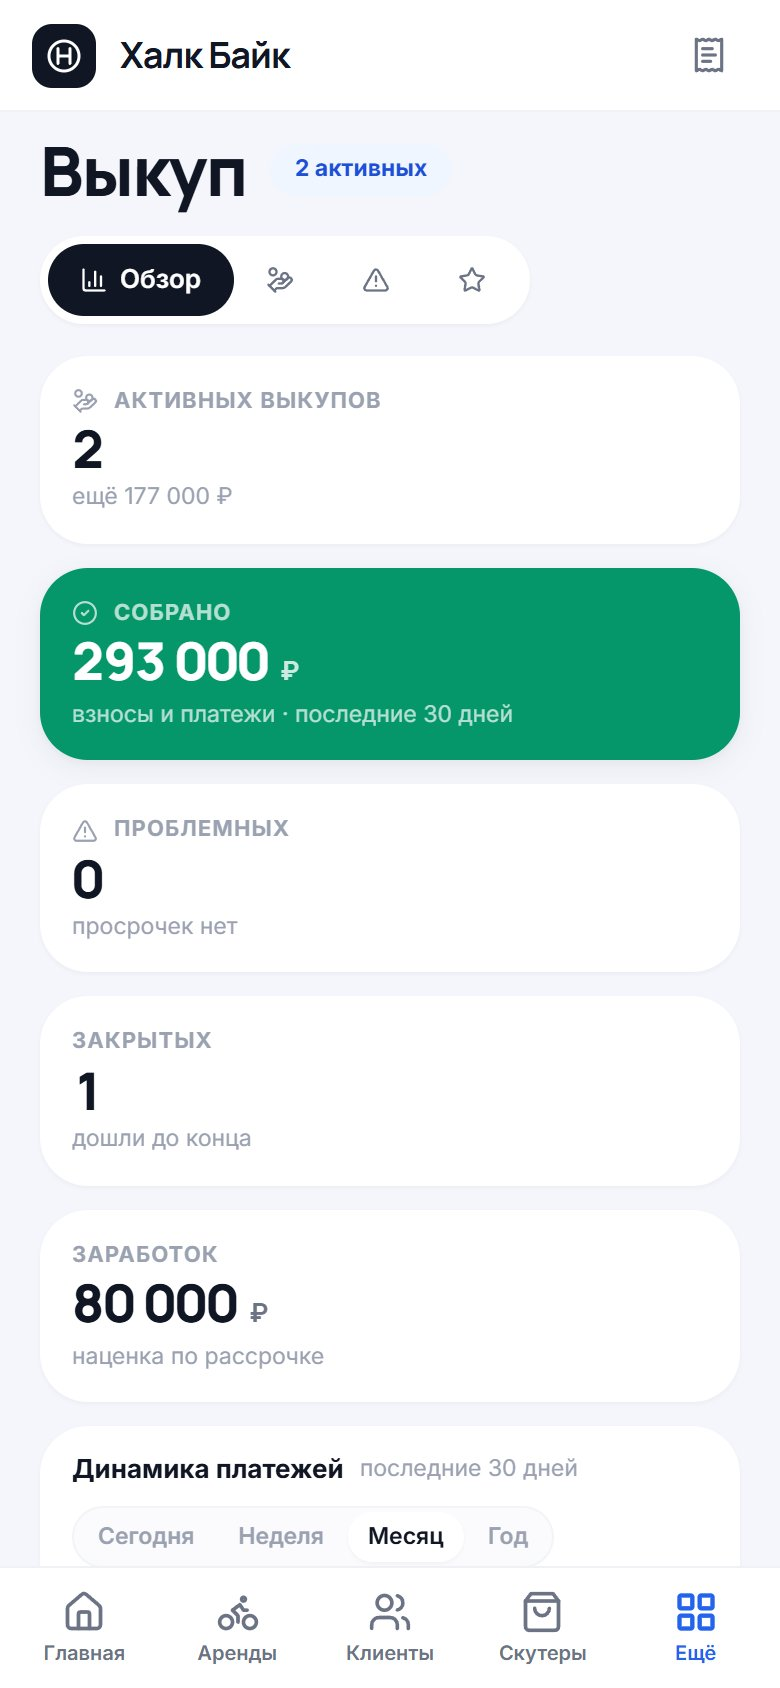
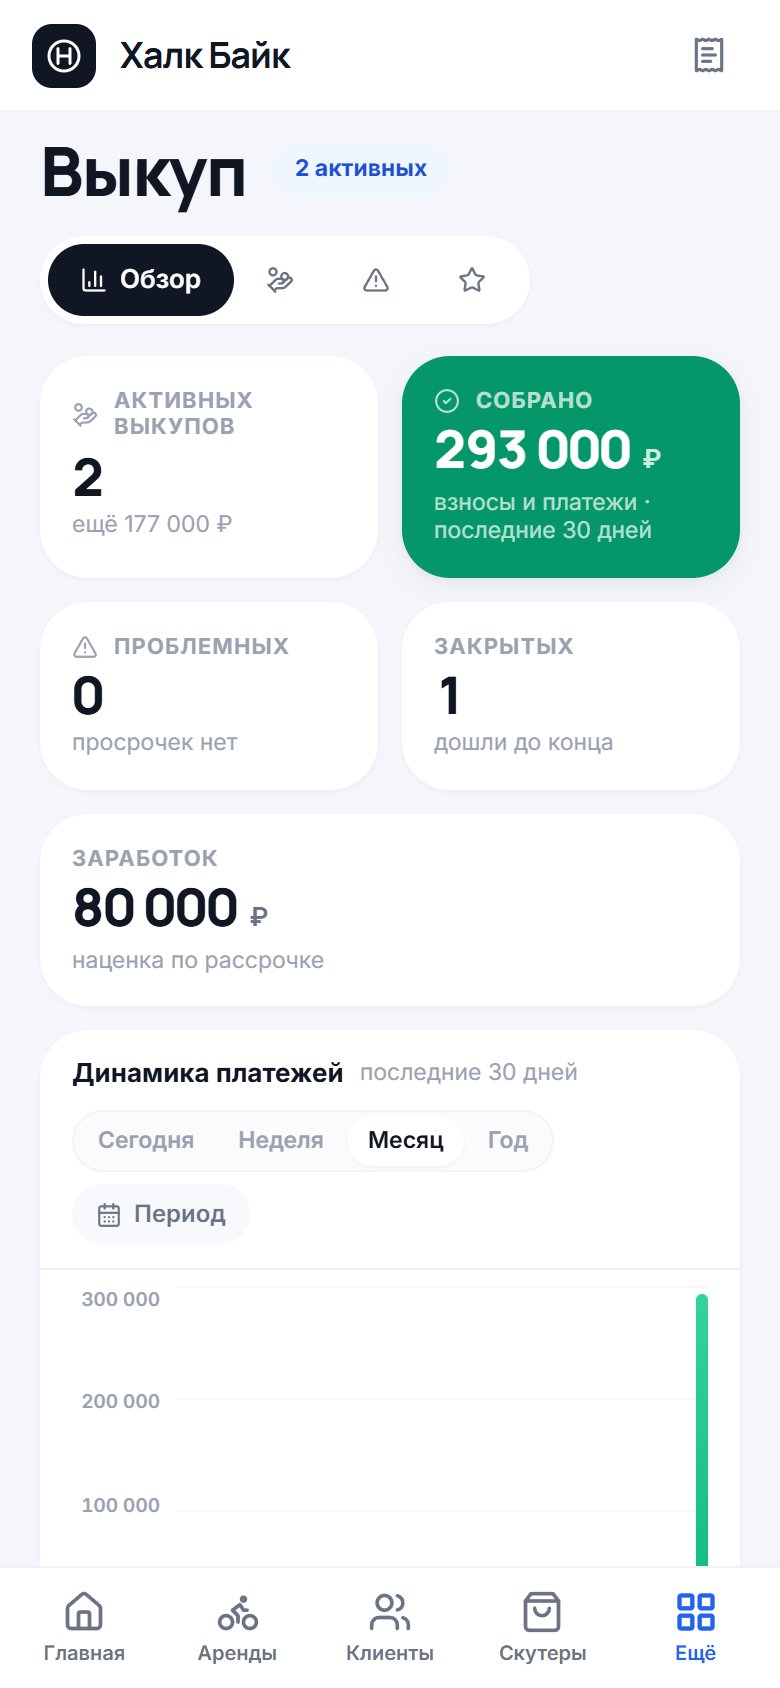
fix(дашборд): «Выручка» больше не даёт горизонтальную прокрутку
На узкой колонке (около 1150px) переключатель День/Неделя/Месяц вместе с
кнопкой разворота вылезал за край карточки, и вся страница получала
горизонтальную прокрутку в 4px. Ряд теперь умеет переноситься.

diff --git a/apps/web/src/pages/dashboard/RevenueCard.tsx b/apps/web/src/pages/dashboard/RevenueCard.tsx
@@ -303,8 +303,11 @@ export function RevenueCard({
               )}
           </div>
         </div>
-        <div className="flex items-center gap-2">
-          <div className="inline-flex rounded-full bg-white/15 p-0.5">
+        {/* На узкой колонке (≈1150px) переключатель с кнопкой разворота
+            вылезал за край карточки и давал горизонтальную прокрутку всей
+            страницы. Теперь ряд умеет переноситься и сжиматься (01.09). */}
+        <div className="flex min-w-0 flex-wrap items-center justify-end gap-2">
+          <div className="inline-flex shrink-0 rounded-full bg-white/15 p-0.5">
             {TABS.map((t) => (
               <button
                 key={t.id}
@@ -315,7 +318,7 @@ export function RevenueCard({
                   setCustomRange(null);
                 }}
                 className={cn(
-                  "rounded-full px-3 py-1 text-xs font-semibold transition-colors",
+                  "rounded-full px-2.5 py-1 text-xs font-semibold transition-colors",
                   !customRange && period === t.id
                     ? "bg-white text-blue-700"
                     : "bg-transparent text-white/75 hover:text-white",
